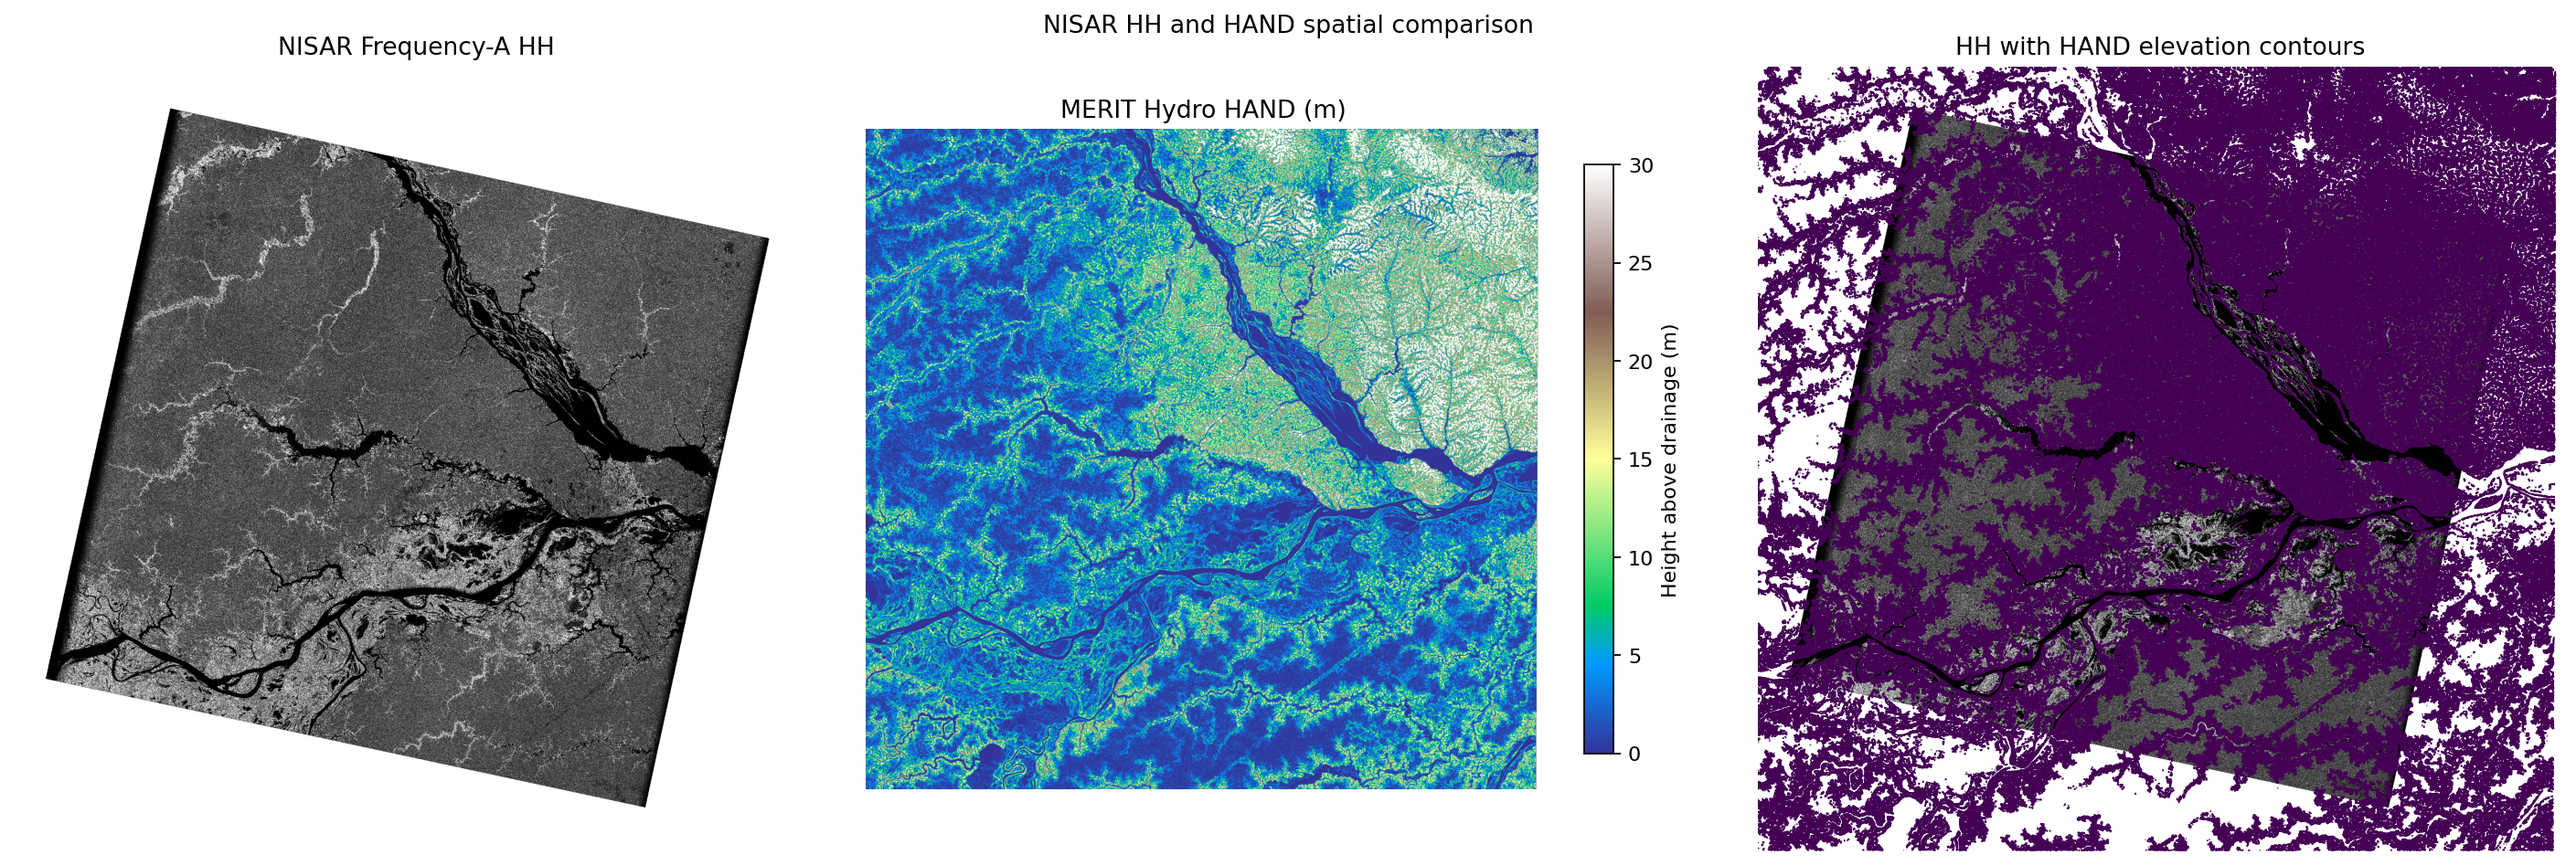
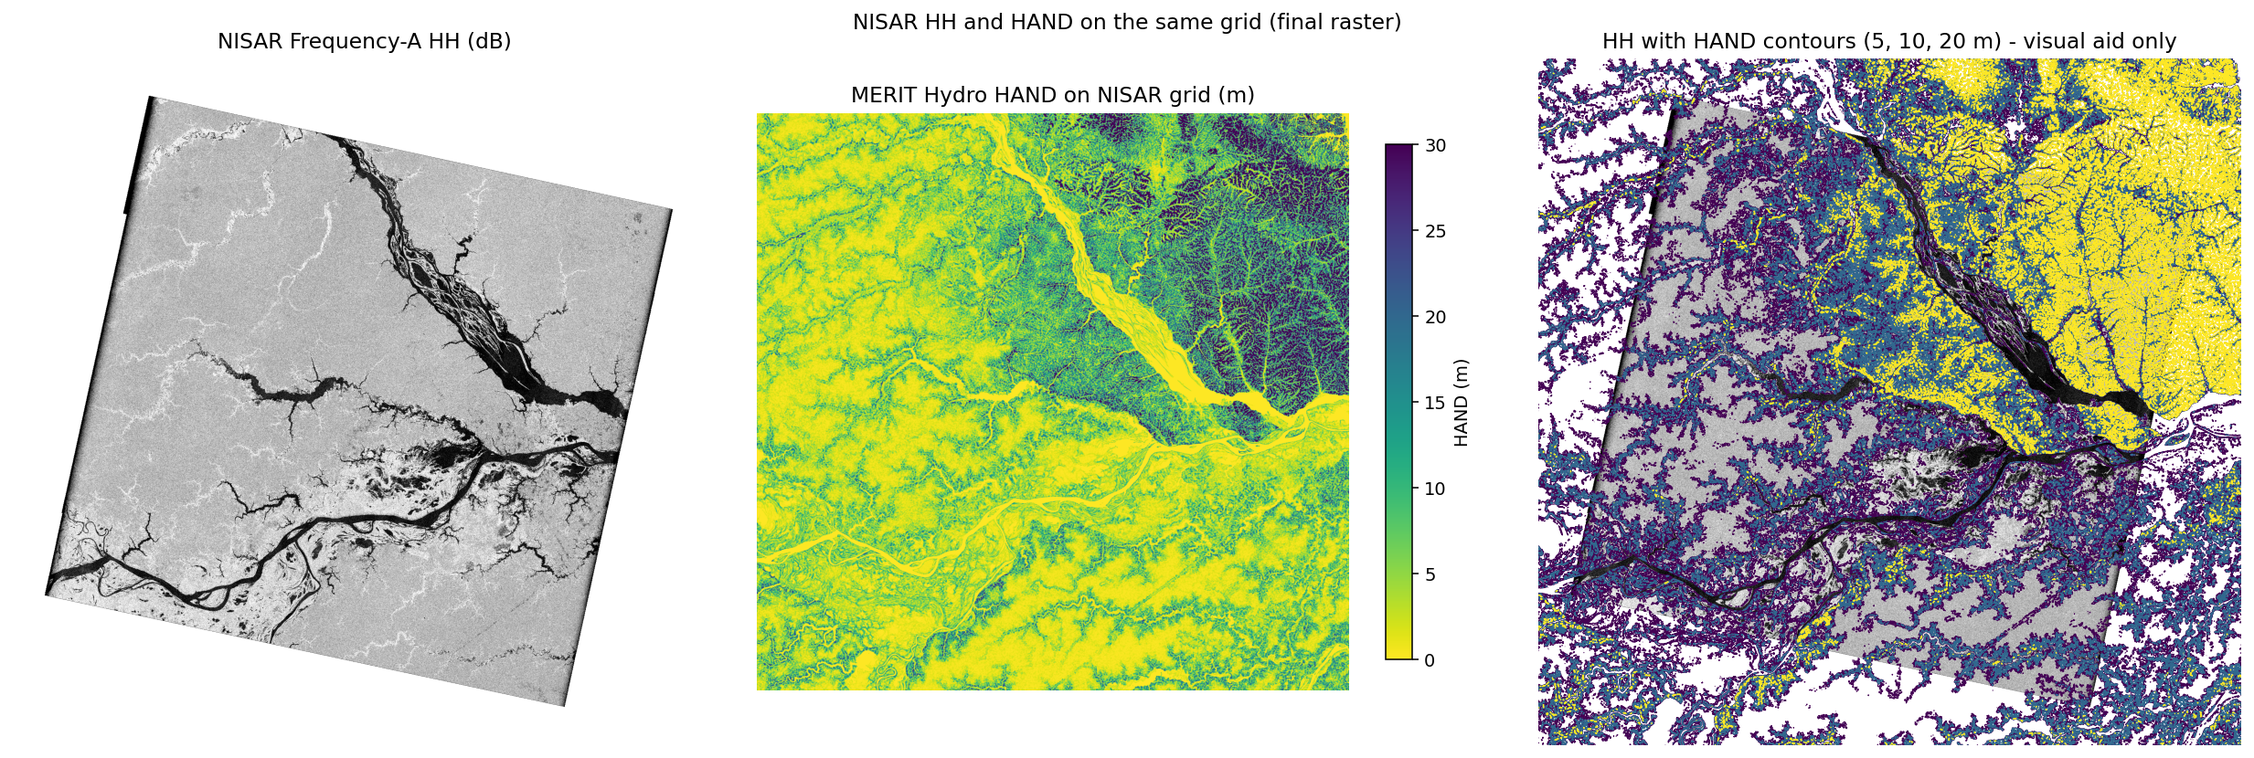
docs: complete ticket evidence (provenance, refreshed comparison figure, index)

diff --git a/docs/evidence/README.md b/docs/evidence/README.md
@@ -1,0 +1,11 @@
+# Ticket #13 evidence index
+
+| Acceptance criterion | Evidence |
+|---|---|
+| HAND clipped to the AOI and reprojected to match the NISAR chips | `hand_alignment_report.json` / `.txt` (CRS, transform, shape match the NISAR grid; 100% valid), `hand_nisar_comparison.png`, `hand_provenance.json` |
+| DEM choice and canopy correction documented | `../hand_methods.md`, `../data_sources.md` |
+| Visual check against known river channels | `hand_hydrorivers_overlay.png`, `hand_manaus_zoom.png`, `hand_river_check.json`, `hand_validation_notes.md` |
+
+**The aligned raster itself is not in git** (945 MB). It is `hand_aoi.tif` in the Drive folder `nisar_ticket13_hand`.
+Verify you have the same file with the SHA-256 in `hand_provenance.json`
+(`dffb657e980e138e...`).
